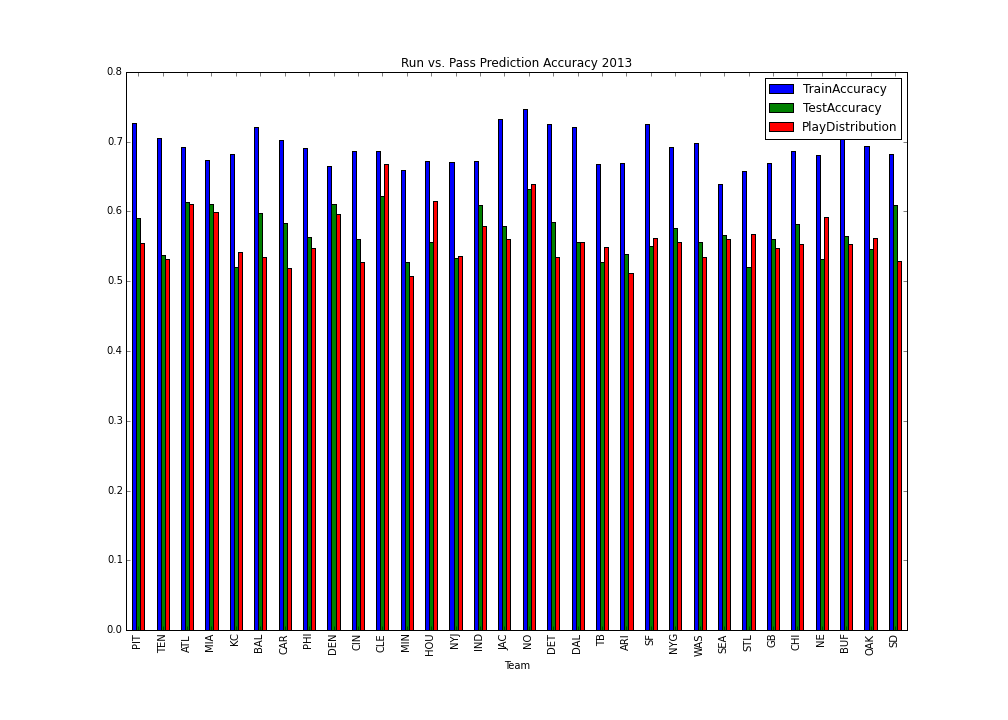
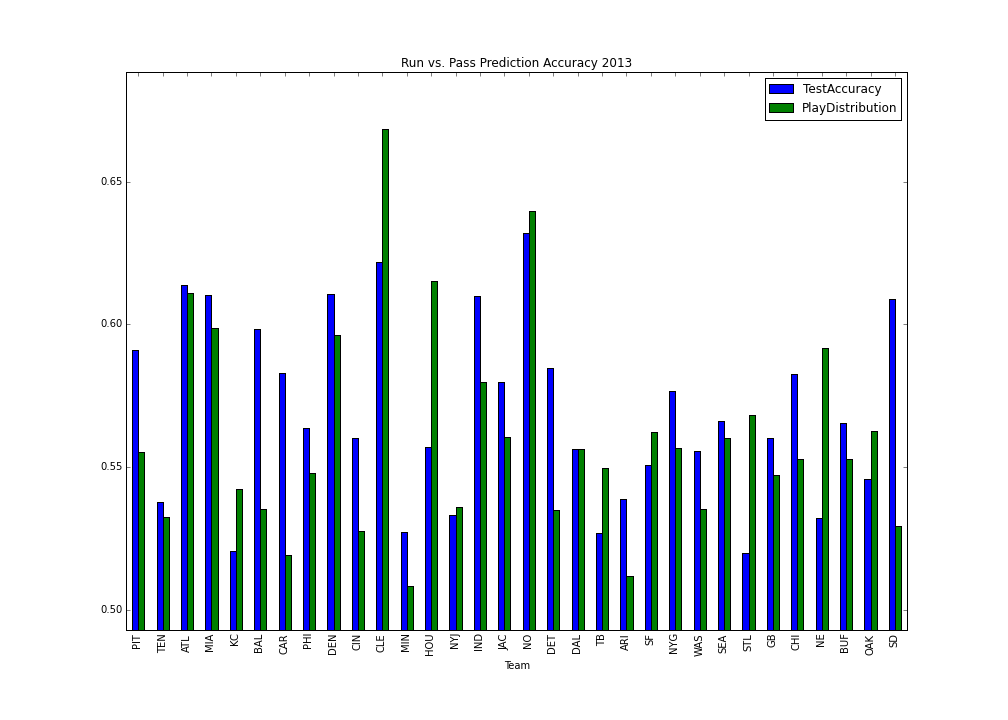
updated svm plots

Changed region(s): [[0.0923, 0.1222, 0.9226, 0.8861]]

diff --git a/svmPlot.py b/svmPlot.py
@@ -14,7 +14,9 @@ data={}
 for f in files:
     year = f.split('.')[0]
     data[year] = pd.read_csv('svmResults/'+f,header=0)
-    data[year].plot(x=data[year].Team,kind='bar',figsize=(14,10),title="Run vs. Pass Prediction Accuracy "+year)
+    del data[year]['TrainAccuracy']
+    ax = data[year].plot(x=data[year].Team,kind='bar',figsize=(14,10),title="Run vs. Pass Prediction Accuracy "+year)
+    ax.set_ylim([min(min(data[year].TestAccuracy), min(data[year].PlayDistribution)) * 0.97, max(max(data[year].TestAccuracy), max(data[year].PlayDistribution)) * 1.03])
     plt.savefig('svmResults/Accuracy'+year+'.png')
     
 
@@ -36,14 +38,15 @@ for team in teams:
 meanData = pd.DataFrame({'Team':teams})
 meanData['MeanTestAccuracies'] = MeanTestAcc
 meanData['MeanPlayDistribution'] = MeanPlayDist
-meanData.plot(x = meanData.Team,kind='bar',figsize=(14,10),title="Mean Run vs. Pass Accuracy")
+ax1 = meanData.plot(x = meanData.Team,kind='bar',figsize=(14,10),title="Mean Run vs. Pass Accuracy")
+ax1.set_ylim([min(min(meanData.MeanTestAccuracies), min(meanData.MeanPlayDistribution)) * 0.97, max(max(meanData.MeanTestAccuracies), max(meanData.MeanPlayDistribution)) * 1.03])
 plt.savefig('svmResults/MeanComparison.png') 
 
 score = []
 for i in range(len(teams)):
-    score.append(MeanTestAcc[i] - MeanPlayDist[i])
+    score.append((MeanTestAcc[i] - MeanPlayDist[i])*100)
     
 scoreData = pd.DataFrame({'Team':teams})
 scoreData['Score'] = score
-scoreData.plot(kind='bar',x='Team',y='Score',figsize=(14,10))
+ax2 = scoreData.plot(kind='bar',x='Team',y='Score',figsize=(14,10))
 plt.savefig('svmResults/ScoreSVM.png')     
